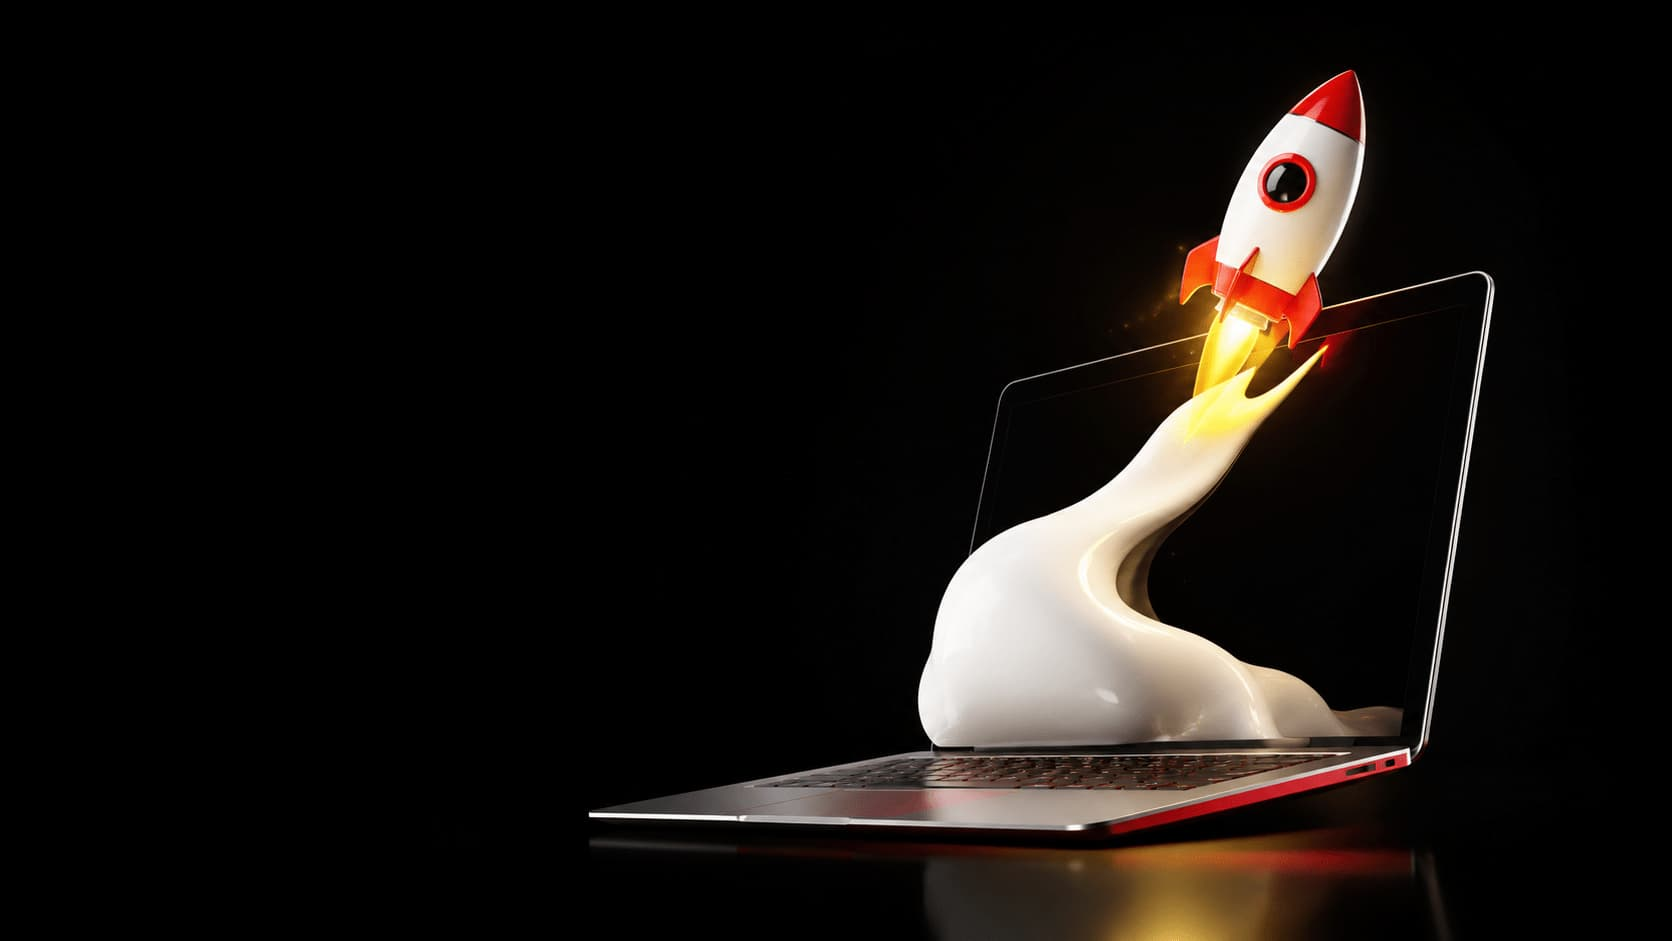
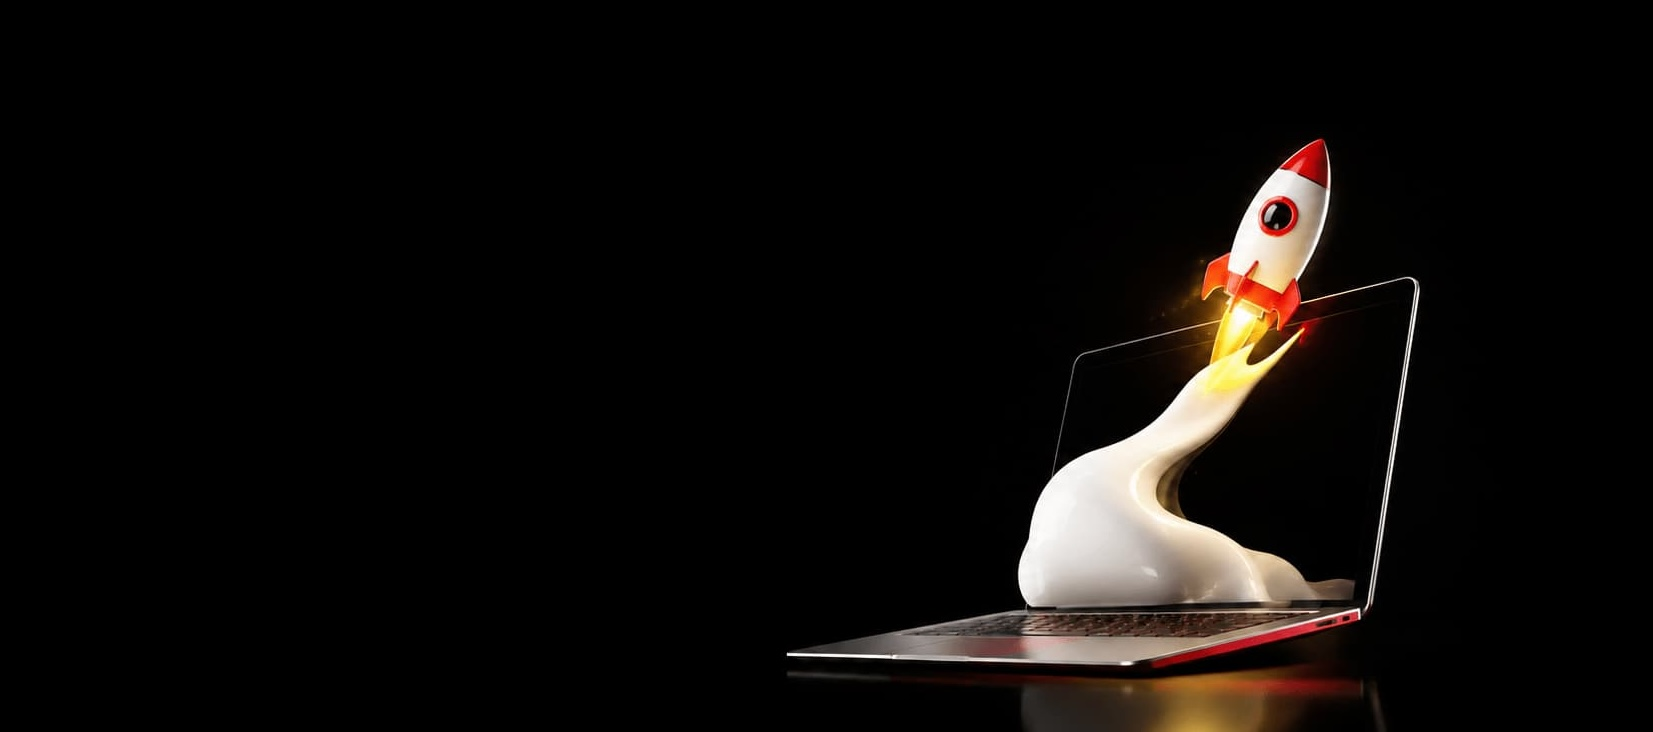
+

Changed region(s): [[0.3394, 0.0601, 0.8947, 1.0]]

diff --git a/css/services.css b/css/services.css
@@ -819,3 +819,285 @@
     text-shadow: 0 2px 16px rgba(0, 0, 0, 0.38) !important;
 }
 
+/* =========================
+   IMPROVEMENT CARDS — TABLET / MOBILE COMPACT
+   icon top-right, lower card height
+========================= */
+
+@media (max-width: 1180px) {
+    .improvement-card {
+        position: relative !important;
+        min-height: 220px !important;
+        padding: 24px !important;
+    }
+
+    .improvement-card>svg {
+        position: absolute !important;
+        top: 24px !important;
+        right: 24px !important;
+        margin-bottom: 0 !important;
+        z-index: 2 !important;
+    }
+
+    .improvement-card h3 {
+        padding-right: 58px !important;
+        margin-top: 0 !important;
+        margin-bottom: 10px !important;
+    }
+
+    .improvement-card p {
+        padding-right: 0 !important;
+    }
+}
+
+@media (max-width: 760px) {
+    .improvement-card {
+        min-height: 175px !important;
+        padding: 22px 20px !important;
+    }
+
+    .improvement-card>svg {
+        top: 22px !important;
+        right: 20px !important;
+        margin-bottom: 0 !important;
+    }
+
+    .improvement-card h3 {
+        padding-right: 52px !important;
+        margin-bottom: 9px !important;
+    }
+
+    .improvement-card p {
+        font-size: 0.94rem !important;
+        line-height: 1.62 !important;
+    }
+}
+
+@media (max-width: 520px) {
+    .improvement-card {
+        min-height: 155px !important;
+        padding: 20px 18px !important;
+    }
+
+    .improvement-card>svg {
+        top: 20px !important;
+        right: 18px !important;
+    }
+
+    .improvement-card h3 {
+        padding-right: 46px !important;
+    }
+}
+/* =========================
+   GLOBAL SECTION KICKER — SAME AS HOME PAGE
+   for all service pages
+========================= */
+
+.section-kicker {
+    position: relative !important;
+    display: inline-flex !important;
+    align-items: center !important;
+    gap: 12px !important;
+    width: fit-content !important;
+    margin-bottom: 18px !important;
+    padding: 0 0 11px 16px !important;
+    color: inherit !important;
+    background: transparent !important;
+    border: 0 !important;
+    border-radius: 0 !important;
+    font-size: 0.74rem !important;
+    font-weight: 900 !important;
+    letter-spacing: 0.18em !important;
+    line-height: 1 !important;
+    text-transform: uppercase !important;
+}
+
+/* левая вертикальная линия */
+.section-kicker::before {
+    content: "" !important;
+    position: absolute !important;
+    left: 0 !important;
+    top: -2px !important;
+    width: 3px !important;
+    height: 22px !important;
+    border-radius: 999px !important;
+    background: var(--color-accent) !important;
+    box-shadow: 0 0 18px rgba(255, 231, 97, 0.44) !important;
+    opacity: 1 !important;
+}
+
+/* нижняя линия */
+.section-kicker::after {
+    content: "" !important;
+    position: absolute !important;
+    left: 16px !important;
+    bottom: 0 !important;
+    width: 74px !important;
+    height: 2px !important;
+    border-radius: 999px !important;
+    background: linear-gradient(90deg,
+            var(--color-accent),
+            rgba(255, 231, 97, 0)) !important;
+}
+
+/* светлые секции */
+.section--light .section-kicker,
+.section--ivory .section-kicker,
+.service-overview .section-kicker,
+.service-matters .section-kicker,
+.service-deliverables .section-kicker,
+.service-faq .section-kicker {
+    color: #171915 !important;
+}
+
+/* тёмные секции */
+.section--dark .section-kicker,
+.section--deep .section-kicker,
+.page-hero .section-kicker,
+.service-hero .section-kicker,
+.service-improves .section-kicker,
+.service-method .section-kicker,
+.service-promise .section-kicker {
+    color: #F8F6EF !important;
+}
+
+/* если kicker внутри светлого блока, даже если сама секция тёмная */
+.related-services .section-kicker {
+    color: #171915 !important;
+}
+
+/* mobile */
+@media (max-width: 760px) {
+    .section-kicker {
+        margin-bottom: 16px !important;
+        font-size: 0.7rem !important;
+        letter-spacing: 0.15em !important;
+    }
+
+    .section-kicker::before {
+        height: 20px !important;
+    }
+
+    .section-kicker::after {
+        width: 64px !important;
+    }
+}
+
+/* =========================
+   SERVICE FAQ — HOVERS WITHOUT YELLOW
+========================= */
+
+/* FAQ items */
+.service-faq .faq-item {
+    position: relative !important;
+    overflow: hidden !important;
+    border-color: rgba(20, 24, 18, 0.14) !important;
+    transition:
+        transform var(--transition-base),
+        border-color var(--transition-base),
+        background var(--transition-base),
+        box-shadow var(--transition-base) !important;
+}
+
+.service-faq .faq-item::before {
+    content: "" !important;
+    position: absolute !important;
+    inset: 0 !important;
+    opacity: 0 !important;
+    pointer-events: none !important;
+    background:
+        linear-gradient(135deg,
+            rgba(255, 255, 255, 0.72),
+            rgba(255, 255, 255, 0.24)),
+        radial-gradient(circle at 92% 18%,
+            rgba(20, 24, 18, 0.055),
+            transparent 18rem) !important;
+    transition: opacity var(--transition-base) !important;
+}
+
+.service-faq .faq-item:hover,
+.service-faq .faq-item.is-open {
+    transform: translateY(-3px) !important;
+    border-color: rgba(20, 24, 18, 0.24) !important;
+    background: rgba(255, 255, 255, 0.72) !important;
+    box-shadow:
+        0 18px 44px rgba(20, 24, 18, 0.09),
+        inset 0 1px 0 rgba(255, 255, 255, 0.72) !important;
+}
+
+.service-faq .faq-item:hover::before,
+.service-faq .faq-item.is-open::before {
+    opacity: 1 !important;
+}
+
+.service-faq .faq-button,
+.service-faq .faq-panel {
+    position: relative !important;
+    z-index: 1 !important;
+}
+
+.service-faq .faq-item:hover .faq-question,
+.service-faq .faq-item.is-open .faq-question {
+    color: #171915 !important;
+}
+
+/* icon hover without yellow */
+.service-faq .faq-icon {
+    transition:
+        transform var(--transition-base),
+        background var(--transition-base),
+        border-color var(--transition-base),
+        box-shadow var(--transition-base) !important;
+}
+
+.service-faq .faq-item:hover .faq-icon,
+.service-faq .faq-item.is-open .faq-icon {
+    background: rgba(20, 24, 18, 0.08) !important;
+    border-color: rgba(20, 24, 18, 0.22) !important;
+    box-shadow: 0 10px 24px rgba(20, 24, 18, 0.1) !important;
+}
+
+/* Related services card */
+.service-faq .related-services {
+    transition:
+        transform var(--transition-base),
+        border-color var(--transition-base),
+        box-shadow var(--transition-base),
+        background var(--transition-base) !important;
+}
+
+.service-faq .related-services:hover {
+    transform: translateY(-4px) !important;
+    border-color: rgba(20, 24, 18, 0.2) !important;
+    background:
+        linear-gradient(145deg,
+            rgba(255, 255, 255, 0.92),
+            rgba(255, 255, 255, 0.58)) !important;
+    box-shadow:
+        0 28px 72px rgba(20, 24, 18, 0.14),
+        inset 0 1px 0 rgba(255, 255, 255, 0.74) !important;
+}
+
+/* Related links hover without yellow */
+.service-faq .related-services__links a {
+    transition:
+        color var(--transition-base),
+        padding-left var(--transition-base),
+        border-color var(--transition-base) !important;
+}
+
+.service-faq .related-services__links a:hover {
+    color: #171915 !important;
+    padding-left: 8px !important;
+    border-color: rgba(20, 24, 18, 0.22) !important;
+}
+
+.service-faq .related-services__links a:hover svg {
+    color: #171915 !important;
+    transform: translateX(5px) !important;
+}
+
+/* button inside related card */
+.service-faq .related-services .btn:hover {
+    box-shadow: 0 18px 38px rgba(20, 24, 18, 0.16) !important;
+}
